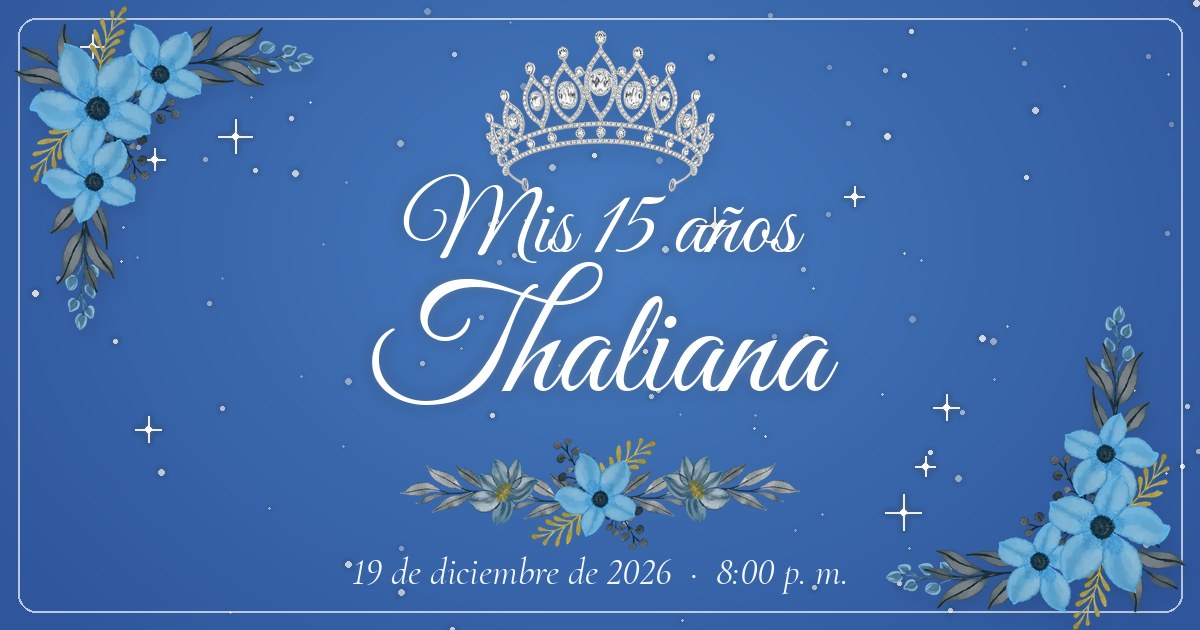
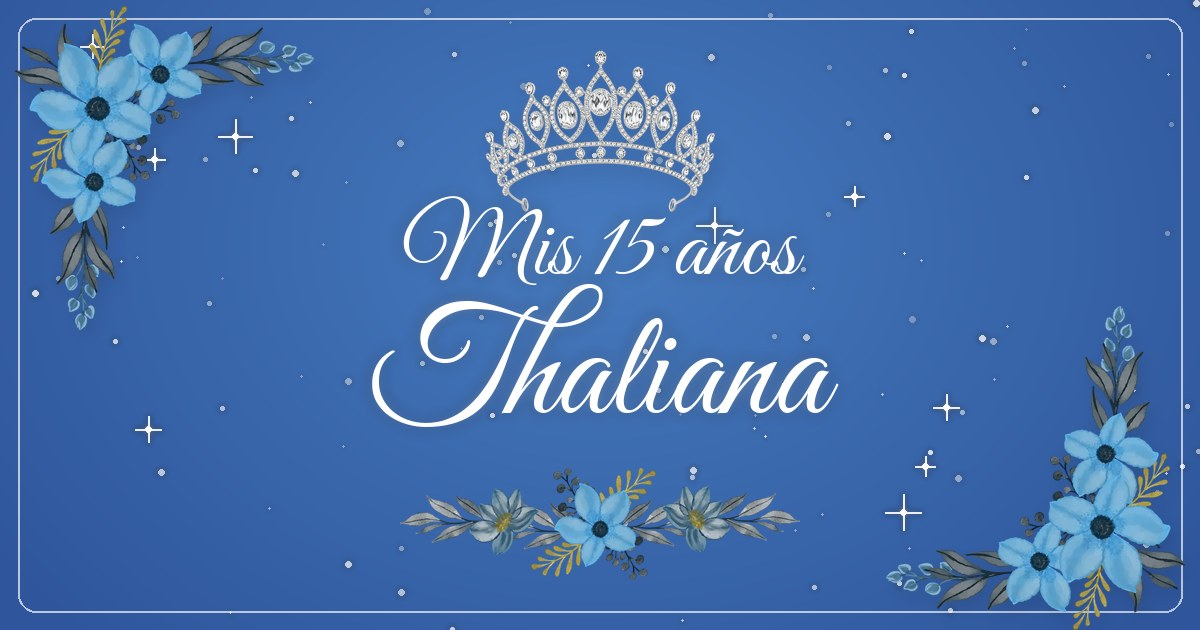
Add files via upload

Changed region(s): [[0.3083, 0.0302, 0.7092, 0.6937], [0.3083, 0.6937, 0.7092, 0.9349]]

diff --git a/script.js b/script.js
@@ -1,9 +1,9 @@
 /* ===== Edita solo estos datos ===== */
 var CFG = {
   nombre: "Thaliana",
-  fecha: "2026-12-19T20:00:00-05:00",      // año-mes-díaTHH:MM con la zona del evento (Colombia = -05:00)
+  fecha: "2026-12-19T19:30:00-05:00",      // año-mes-díaTHH:MM con la zona del evento (Colombia = -05:00)
   zona: "America/Bogota",                  // zona horaria con la que se muestran fecha y hora
-  duracionHoras: 5,                        // duración del evento (para el calendario)
+  fin: "2026-12-20T02:00:00-05:00",         // hora de cierre del evento (para el calendario)
   confirmarAntes: "1 de diciembre",
   lugar: "Salón de Eventos Bellavista",
   direccion: "Cl. 16, Sincelejo, Sucre",     // texto que se muestra bajo el nombre del salón
@@ -99,7 +99,7 @@ tick(); setInterval(tick, 1000);
 
 /* ---------- Agregar al calendario ---------- */
 (function(){
-  var ini = f, fin = new Date(f.getTime() + CFG.duracionHoras * 3600000);
+  var ini = f, fin = new Date(CFG.fin);
   function utc(d){ return d.toISOString().replace(/[-:]/g, "").replace(/\.\d{3}/, ""); }
   var titulo = "15 años de " + CFG.nombre;
   var lugar = CFG.lugar + ", " + CFG.direccion;

diff --git a/index.html b/index.html
@@ -3,7 +3,7 @@
 <head>
 <meta charset="utf-8">
 <meta name="viewport" content="width=device-width, initial-scale=1, viewport-fit=cover">
-<meta name="description" content="Estás invitado a los 15 años de Thaliana · sábado 19 de diciembre de 2026, 8:00 p. m. · Salón de Eventos Bellavista, Sincelejo.">
+<meta name="description" content="Estás invitado a los 15 años de Thaliana · sábado 19 de diciembre de 2026, 7:30 p. m. · Salón de Eventos Bellavista, Sincelejo.">
 <meta property="og:type" content="website">
 <meta property="og:locale" content="es_CO">
 <meta property="og:title" content="Mis 15 años · Thaliana">
@@ -56,7 +56,7 @@
     <p class="dia" id="dDia">sábado</p>
     <p class="num silver" id="dNum">19</p>
     <p class="mes" id="dMes">diciembre de 2026</p>
-    <p class="hora" id="dHora">8:00 p. m.</p>
+    <p class="hora" id="dHora">7:30 p. m.</p>
     <h2 class="silver" style="font-size:1.9rem;margin-top:30px">Faltan</h2>
     <div class="count" role="timer" aria-live="off">
       <div><b id="d">0</b><span>días</span></div>
